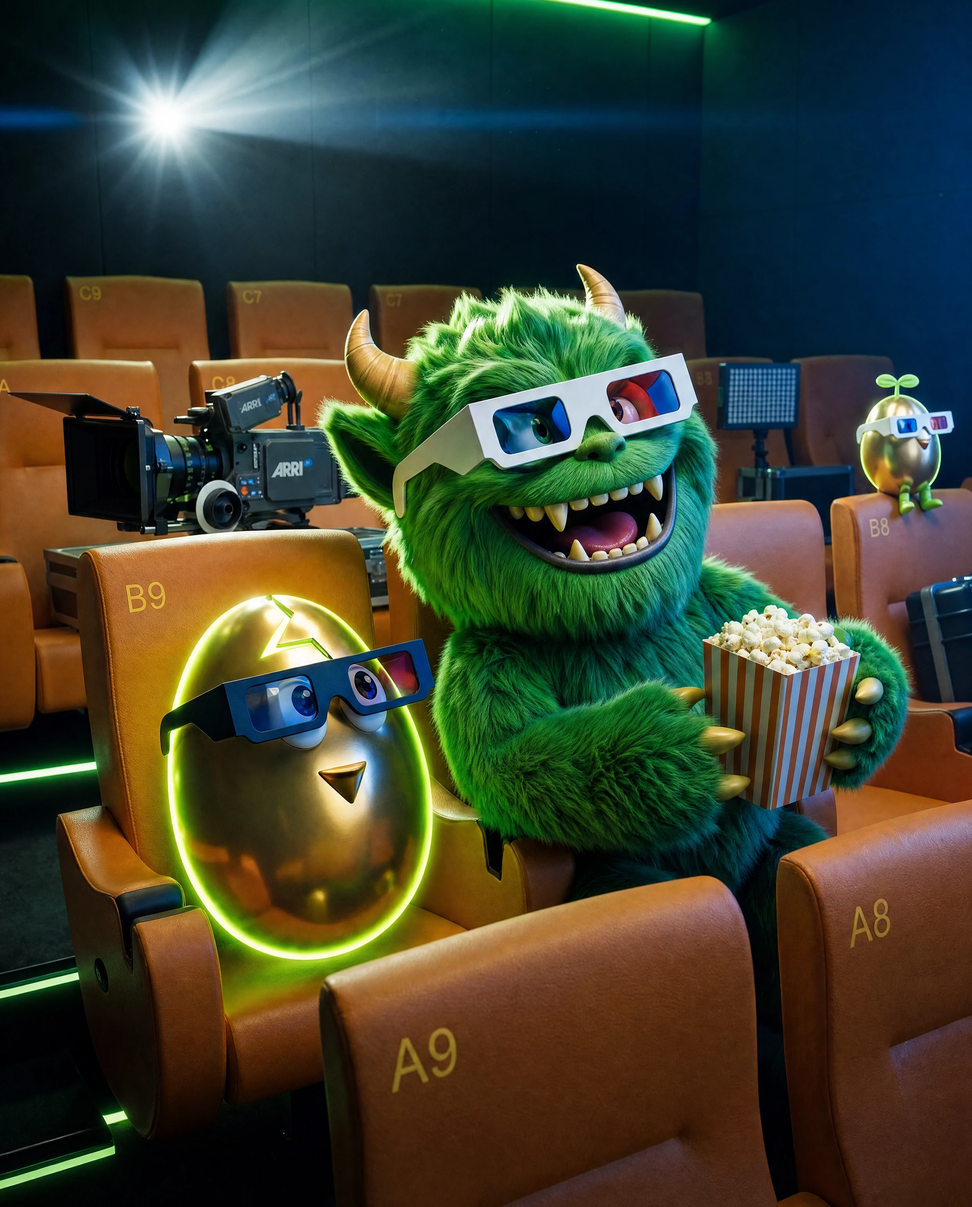
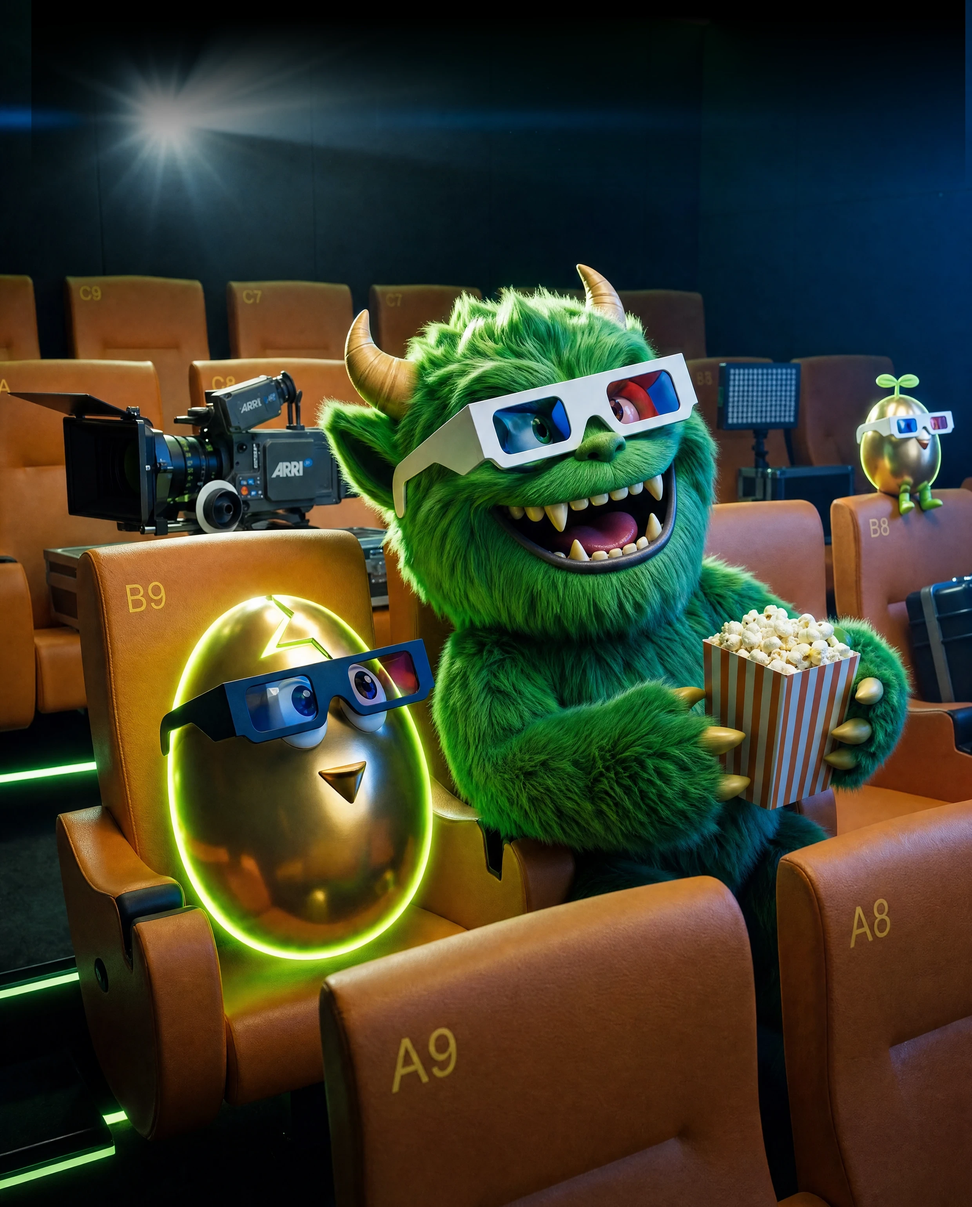
상페 이미지 3종에 피그마 그라데이션 오버레이 굽기
히어로(3684:17912 x0.75)·몬스터(3726:34106)·상영관(3731:34264+3758:2168 x0.75)
— 예전 자산처럼 검정 페이드 포함, 텍스트 가독성 복원

Changed region(s): [[0.031, 0.0, 0.9935, 0.1559]]

diff --git a/basic.html b/basic.html
@@ -199,12 +199,12 @@ src="https://www.facebook.com/tr?id=771478541518631&ev=PageView&noscript=1"></no
 
 <!-- ══ 상페1 (3684:17907) — tools/basic_s1.py 가 만든다. 손대지 말 것 ══ -->
 <section class="bs-s1 bs-board" aria-labelledby="bs-title">
-  <img class="s1-hero" src="assets/img/basic/hero-cinema.webp?v=0aa69227" width="1722" height="1722" fetchpriority="high" alt="라이카 시네마 극장에서 수강생들이 자기 영상 상영을 보고 있다">
+  <img class="s1-hero" src="assets/img/basic/hero-cinema.webp?v=375fb5cb" width="1722" height="1722" fetchpriority="high" alt="라이카 시네마 극장에서 수강생들이 자기 영상 상영을 보고 있다">
   <p class="s1-copy tb bs-rv">취미로 시작했는데<br>한 달 뒤 <b>극장</b>에서<br>내 영상이 상영됩니다.</p>
   <img class="s1-lock bs-rv" src="assets/img/basic/ico/lock-hero.svg?v=0a68631d" width="515" height="102" alt="FVA ACADEMY × 21STUDIOS">
   <h1 class="s1-basic bs-rv" id="bs-title"><span class="sr-only">BASIC CLASS</span><svg class="bs-tl bs-b-basicclass" aria-hidden="true" focusable="false" xmlns="http://www.w3.org/2000/svg" viewBox="0 0 4009.0 853.0"><g transform="scale(1.00000 1) translate(-45.0 836.0) scale(1 -1)" fill="currentColor"><path d="M45 -1H195L187 83H196C205 25 249 -1 305 -1C377 -1 444 56 444 157V301C444 385 385 434 323 432V436C384 439 434 487 434 575V661C434 753 374 821 267 821H45ZM257 128C241 127 206 132 190 138V362H239C276 362 299 345 299 305V188C299 154 289 129 257 128ZM236 494H190V692H239C268 692 289 667 289 641V546C289 516 265 494 236 494Z" transform="translate(0.0 -0.0)"/><path d="M18 -1H167L188 205H283L304 -1H453L330 821H141ZM201 334 229 606H242L270 334Z" transform="translate(427.0 -0.0)"/><path d="M227 -17C349 -17 417 67 417 195C417 326 367 380 321 432L252 509C229 535 185 576 181 648C179 683 198 706 228 706C257 706 273 682 274 650C275 627 275 597 274 574H416C417 596 417 625 416 647C411 760 353 836 227 836C101 836 37 760 37 646C37 552 73 490 111 448L174 379C238 308 272 271 272 177C272 142 257 118 227 118C196 118 186 144 180 180C177 199 179 245 184 274H42C37 233 32 200 40 140C53 43 113 -17 227 -17Z" transform="translate(843.0 -0.0)"/><path d="M50 -1H198V821H50Z" transform="translate(1240.0 -0.0)"/><path d="M248 -17C374 -17 448 62 448 171V305H303V168C303 143 286 116 247 116C210 116 188 143 188 168V650C188 676 210 703 247 703C286 703 303 676 303 650V519H448V647C448 759 374 836 248 836C121 836 43 759 43 647V171C43 62 121 -17 248 -17Z" transform="translate(1433.0 -0.0)"/><path d="M248 -17C374 -17 448 62 448 171V305H303V168C303 143 286 116 247 116C210 116 188 143 188 168V650C188 676 210 703 247 703C286 703 303 676 303 650V519H448V647C448 759 374 836 248 836C121 836 43 759 43 647V171C43 62 121 -17 248 -17Z" transform="translate(2014.0 -0.0)"/><path d="M45 -1H414V128H192V821H45Z" transform="translate(2450.0 -0.0)"/><path d="M18 -1H167L188 205H283L304 -1H453L330 821H141ZM201 334 229 606H242L270 334Z" transform="translate(2824.0 -0.0)"/><path d="M227 -17C349 -17 417 67 417 195C417 326 367 380 321 432L252 509C229 535 185 576 181 648C179 683 198 706 228 706C257 706 273 682 274 650C275 627 275 597 274 574H416C417 596 417 625 416 647C411 760 353 836 227 836C101 836 37 760 37 646C37 552 73 490 111 448L174 379C238 308 272 271 272 177C272 142 257 118 227 118C196 118 186 144 180 180C177 199 179 245 184 274H42C37 233 32 200 40 140C53 43 113 -17 227 -17Z" transform="translate(3240.0 -0.0)"/><path d="M227 -17C349 -17 417 67 417 195C417 326 367 380 321 432L252 509C229 535 185 576 181 648C179 683 198 706 228 706C257 706 273 682 274 650C275 627 275 597 274 574H416C417 596 417 625 416 647C411 760 353 836 227 836C101 836 37 760 37 646C37 552 73 490 111 448L174 379C238 308 272 271 272 177C272 142 257 118 227 118C196 118 186 144 180 180C177 199 179 245 184 274H42C37 233 32 200 40 140C53 43 113 -17 227 -17Z" transform="translate(3637.0 -0.0)"/></g></svg></h1>
   <p class="s1-sub tb bs-rv">피바아카데미 × 21스튜디오 베이직 클래스</p>
-  <img class="s1-monster" src="assets/img/basic/theater-monster.webp?v=ee6cce5f" width="1790" height="2222" loading="lazy" alt="3D 안경을 쓴 피바 캐릭터가 극장 좌석에서 팝콘을 들고 있다">
+  <img class="s1-monster" src="assets/img/basic/theater-monster.webp?v=9683bd1b" width="1790" height="2222" loading="lazy" alt="3D 안경을 쓴 피바 캐릭터가 극장 좌석에서 팝콘을 들고 있다">
   <p class="s1-oddlead bs-rv">와서 놀다 보니 내 영상 하나가 완성돼 있는</p>
   <h2 class="s1-odd bs-rv"><span class="sr-only">수상한 아카데미가 있다?</span><svg class="bs-tl bs-b-odd" aria-hidden="true" focusable="false" xmlns="http://www.w3.org/2000/svg" viewBox="0 0 6398.0 931.0"><g transform="scale(1.00000 1) translate(-20.0 879.0) scale(1 -1)" fill="currentColor"><path d="M26 486 123 390C191 442 244 498 282 559C315 578 372 496 425 399L543 483C489 567 439 631 393 646C362 656 342 644 326 625L318 631C341 688 353 749 353 816V862H213V816C213 674 141 569 26 486ZM212 -42H348V234H540V359H20V234H212Z" transform="translate(0.0 -0.0)"/><path d="M-15 414 98 337C136 388 165 441 187 494C212 488 218 438 222 342L350 354C345 494 331 559 292 582C266 597 239 590 217 558L212 565C236 647 244 724 244 786V849H109V790C109 666 79 537 -15 414ZM202 -47H358C454 -47 520 30 520 131C520 232 454 310 358 310H202C106 310 41 232 41 131C41 30 106 -47 202 -47ZM337 76H223C199 76 178 100 178 131C178 162 199 186 223 186H337C361 186 383 162 383 131C383 100 361 76 337 76ZM365 335H499V522H561V649H499V862H365Z" transform="translate(560.0 -0.0)"/><path d="M365 183H499V454H561V580H499V862H365ZM52 -43H510V86H188V240H52ZM177 276C268 276 330 326 330 422V506C330 602 268 652 177 652C86 652 24 602 24 506V422C24 326 86 276 177 276ZM177 391C156 391 153 410 153 430V500C153 520 156 539 177 539C197 539 200 520 200 500V430C200 410 197 391 177 391ZM12 669H341V792H228V799C257 803 268 816 268 835V879H123C123 851 132 792 86 792H12Z" transform="translate(1120.0 -0.0)"/><path d="M175 -8C266 -8 326 47 326 143V706C326 802 266 857 175 857C84 857 24 802 24 706V143C24 47 84 -8 175 -8ZM175 118C159 118 155 132 155 182V667C155 717 159 730 175 730C192 730 196 717 196 667V182C196 132 192 118 175 118ZM359 -41H494V400H557V526H494V862H359Z" transform="translate(1880.0 -0.0)"/><path d="M9 59 127 -19C267 199 312 462 312 702V850H24V724H178V678C178 639 177 599 173 560C116 542 58 525 0 514L36 379C75 389 114 397 155 422C131 298 86 176 9 59ZM355 -41H489V400H552V526H489V862H355Z" transform="translate(2440.0 -0.0)"/><path d="M272 -26H390V862H272V510H203V397H272V176C246 154 224 142 160 142V723H241V849H27V12H124C210 12 251 48 260 106H272ZM414 -41H533V862H414Z" transform="translate(3000.0 -0.0)"/><path d="M38 7H340V748C340 799 316 850 260 852C222 853 190 840 172 766L160 769L168 849H38ZM168 131V701C172 714 180 720 189 719C206 718 209 707 209 692V131ZM384 -42H518V862H384Z" transform="translate(3560.0 -0.0)"/><path d="M2 69 120 -9C260 209 305 472 305 712V850H22V724H171V688C171 478 131 266 2 69ZM355 -41H489V400H552V526H489V862H355Z" transform="translate(4120.0 -0.0)"/><path d="M455 -52 578 3C544 77 517 154 471 162C452 165 434 151 428 134L422 136C445 194 456 251 456 295V318H323V300C323 240 314 181 282 127C267 147 252 168 238 192C246 229 249 265 249 295V318H116V300C116 203 95 122 2 48L91 -41C131 -15 161 18 184 54C210 18 243 -17 279 -51C323 -21 359 20 386 64C410 50 425 13 455 -52ZM178 359C269 359 334 414 334 510V718C334 814 269 869 178 869C87 869 22 814 22 718V510C22 414 87 359 178 359ZM178 480C156 480 152 499 152 538V689C152 729 156 748 178 748C201 748 205 729 205 689V538C205 499 201 480 178 480ZM383 349H517V862H383Z" transform="translate(4880.0 -0.0)"/><path d="M360 -41H494V400H557V526H494V862H360V171C334 147 291 136 247 136H180V725H316V850H43V7H203C291 7 340 42 349 101H360Z" transform="translate(5440.0 -0.0)"/><path d="M114 294V197H253V295C253 358 277 374 322 429C371 489 418 557 418 666C418 771 374 867 213 867C59 867 2 759 27 617H163C147 703 171 739 213 739C272 739 278 686 278 646C278 584 237 532 191 481C120 402 114 364 114 294ZM112 -34H260V134H112Z" transform="translate(6000.0 -0.0)"/></g></svg></h2>
   <img class="s1-blur" src="assets/img/basic/field-blur.webp?v=6428b973" width="1720" height="1046" loading="lazy" alt="스태프들이 촬영 장비를 들고 야외 현장을 준비하고 있다">
@@ -548,7 +548,7 @@ src="https://www.facebook.com/tr?id=771478541518631&ev=PageView&noscript=1"></no
 <!-- ══ 상페3 마무리 (3684:17906 이하) ══ -->
 <section class="bs-s3 bs-s3b bs-board" aria-labelledby="bs-h-fin">
   <p class="bs-finlead tb bs-rv" id="bs-h-fin">불이 꺼지고<br>스크린에 <b>내 이름</b>이 올라갑니다.</p>
-  <img class="bs-finpic" src="assets/img/basic/laika-hall.webp?v=2013e5a1" width="1806" height="2018" loading="lazy" alt="라이카 시네마 2관 상영관 전경">
+  <img class="bs-finpic" src="assets/img/basic/laika-hall.webp?v=c902f211" width="1806" height="2018" loading="lazy" alt="라이카 시네마 2관 상영관 전경">
   <p class="bs-finh tb bs-rv">한 달이면 됩니다.<br>영상, 더 이상 혼자 하지 마세요!</p>
   <p class="bs-insta bs-rv">피바아카데미 공식 인스타그램 : <a href="https://www.instagram.com/fvaacademy/" target="_blank" rel="noopener">@fvaacademy</a></p>
 </section>
